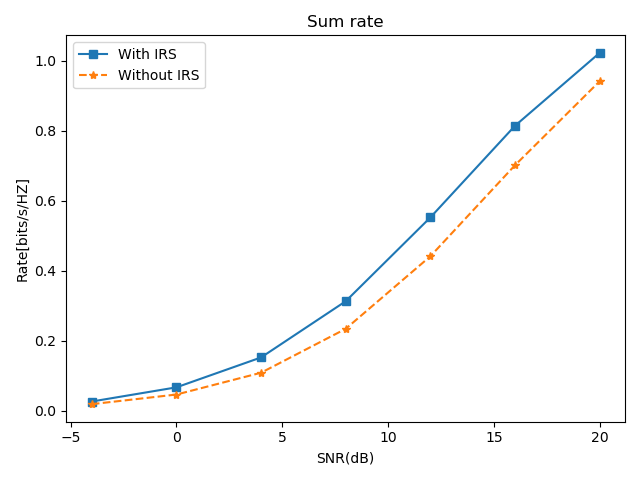
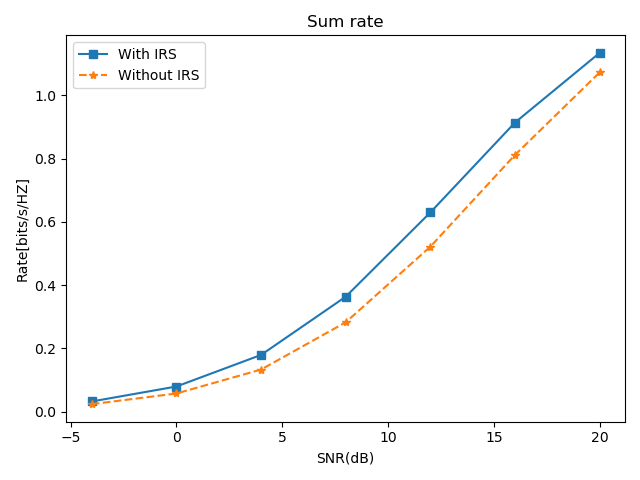
Correct mmse equations

diff --git a/simulation.py b/simulation.py
@@ -111,7 +111,7 @@ class MUIRSSimuation(Simulation):
             print('Simulating SNR: ', SNR)
             H = np.zeros((self.num_users(), self.bs.antnum), dtype=complex)
             for k in range(self.num_users()):
-                H[:, k] = self.bs_user_links[k].get_channel_matrix().conj()
+                H[:, k] = self.bs_user_links[k].get_channel_matrix()
             Wopt = self.get_mmse(H, SNR)
             p_0[idx] = util.lin2dbm(np.sum(np.power(np.abs(Wopt), 2)))
             r_0[idx] = self.get_sum_rate(Wopt)
@@ -142,8 +142,8 @@ class MUIRSSimuation(Simulation):
         b = {}
         while iter < self.maxiter:
             for k in range(self.num_users()):
-                H[:, k] = np.matmul(vopt.conj().T, phi[k]) + \
-                          self.bs_user_links[k].get_channel_matrix().conj()
+                H[:, k] = np.matmul(vopt.T, phi[k].conj()) + \
+                          self.bs_user_links[k].get_channel_matrix()
             Wopt = self.get_mmse(H, SNR)
             for k in range(self.num_users()):
                 for j in range(self.num_users()):

diff --git a/main.py b/main.py
@@ -6,6 +6,8 @@ import matplotlib.pyplot as plt
 from multiprocessing import Pool
 simulation_count = 100
 r1 = 20
+gamma = 1
+SNR_db = np.arange(-4, 21, 4)
 
 
 def create_simulations():
@@ -18,11 +20,11 @@ def create_simulations():
             10,  # IRS elements
             (0, 21, 0),  # IRS position
             -40,  # No dB
-            np.arange(-4, 21, 4),  # SNR dB
+            SNR_db,  # SNR dB
             -20,  # c0 dB
             2.7,  # alpha bs-irs
             math.inf,  # beta bs-irs
-            1)  # gamma
+            gamma)  # gamma
 
         for u in range(4):  # add 4 users
             theta = np.pi / 4 + (u - 1) * np.pi / 2
@@ -72,7 +74,7 @@ if __name__ == '__main__':
         plt.title(result.title)
         plt.legend()
         plt.show()
-        fig.savefig(result.title)
+        fig.savefig(result.title + str(gamma))
 
 
 
